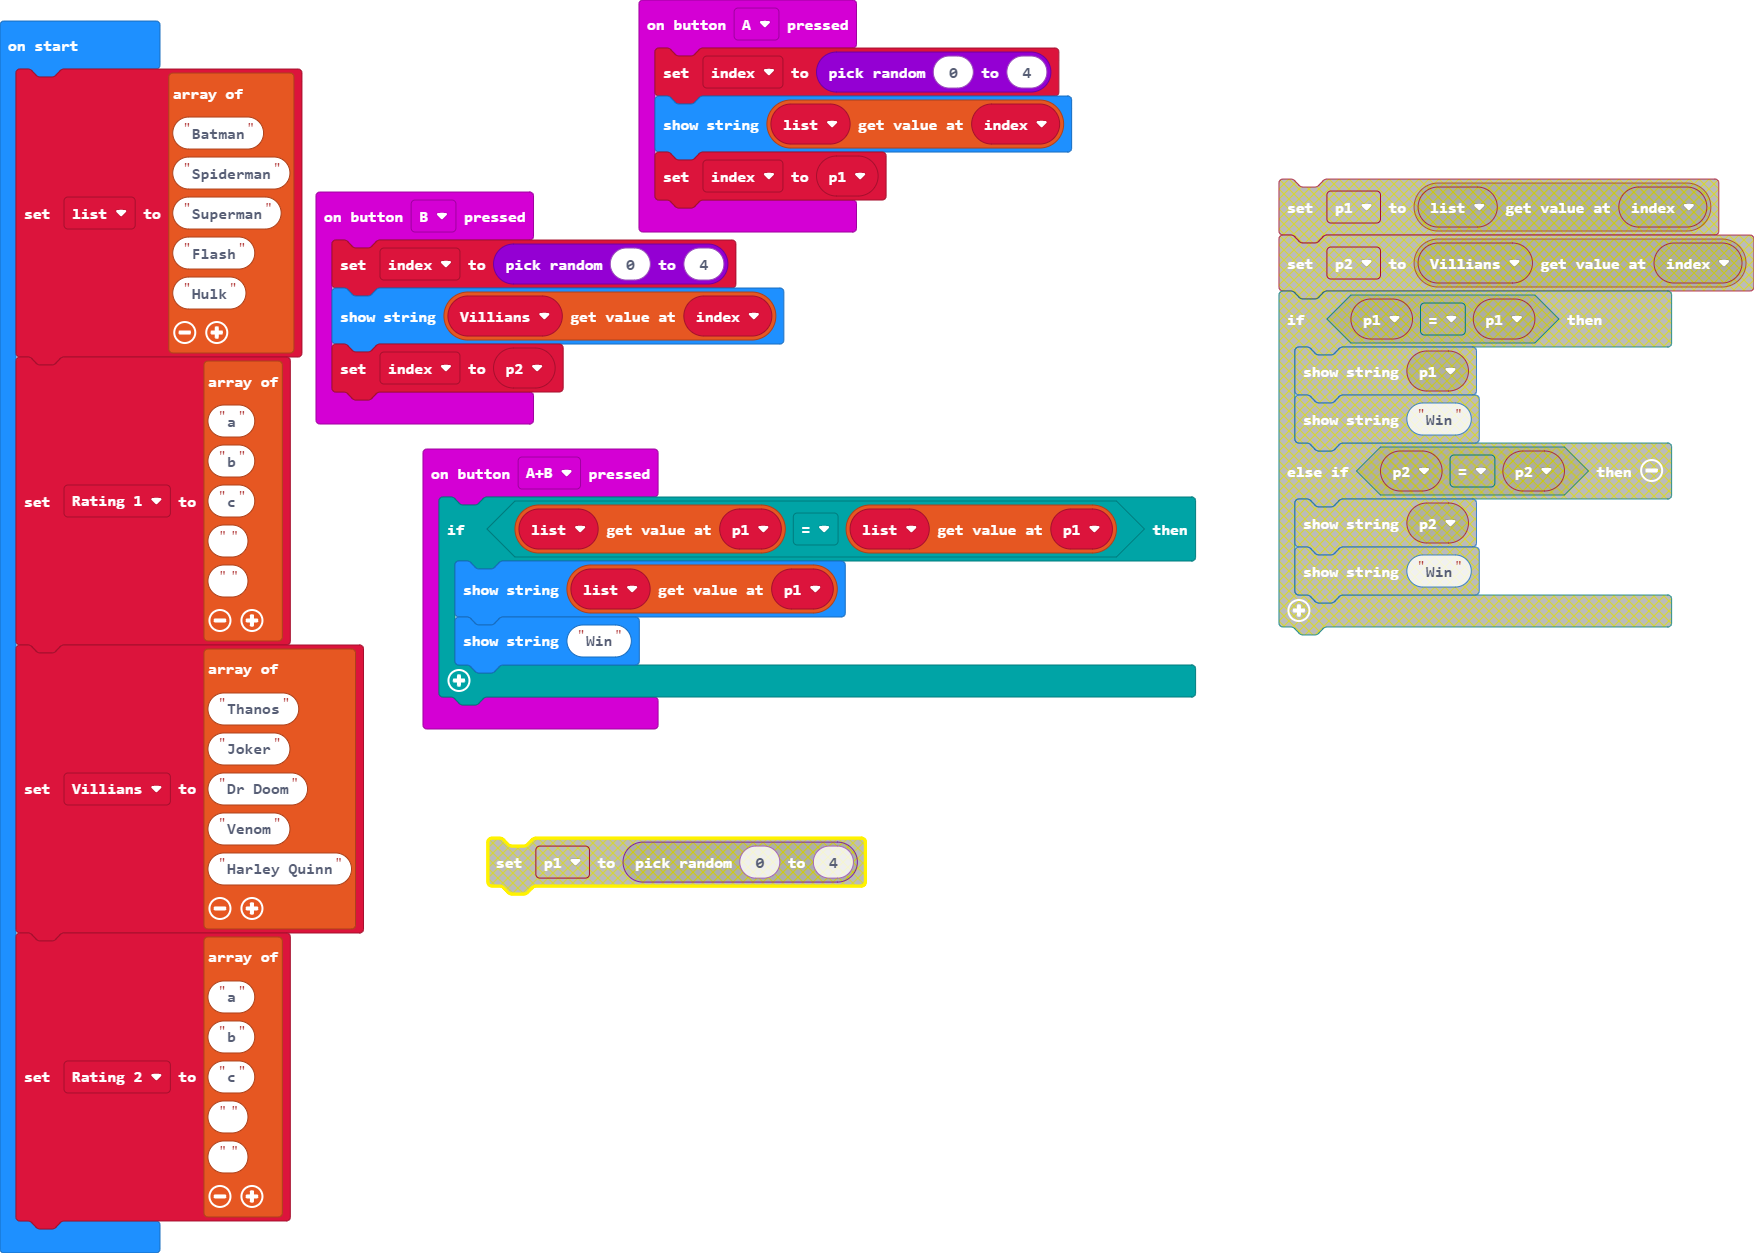
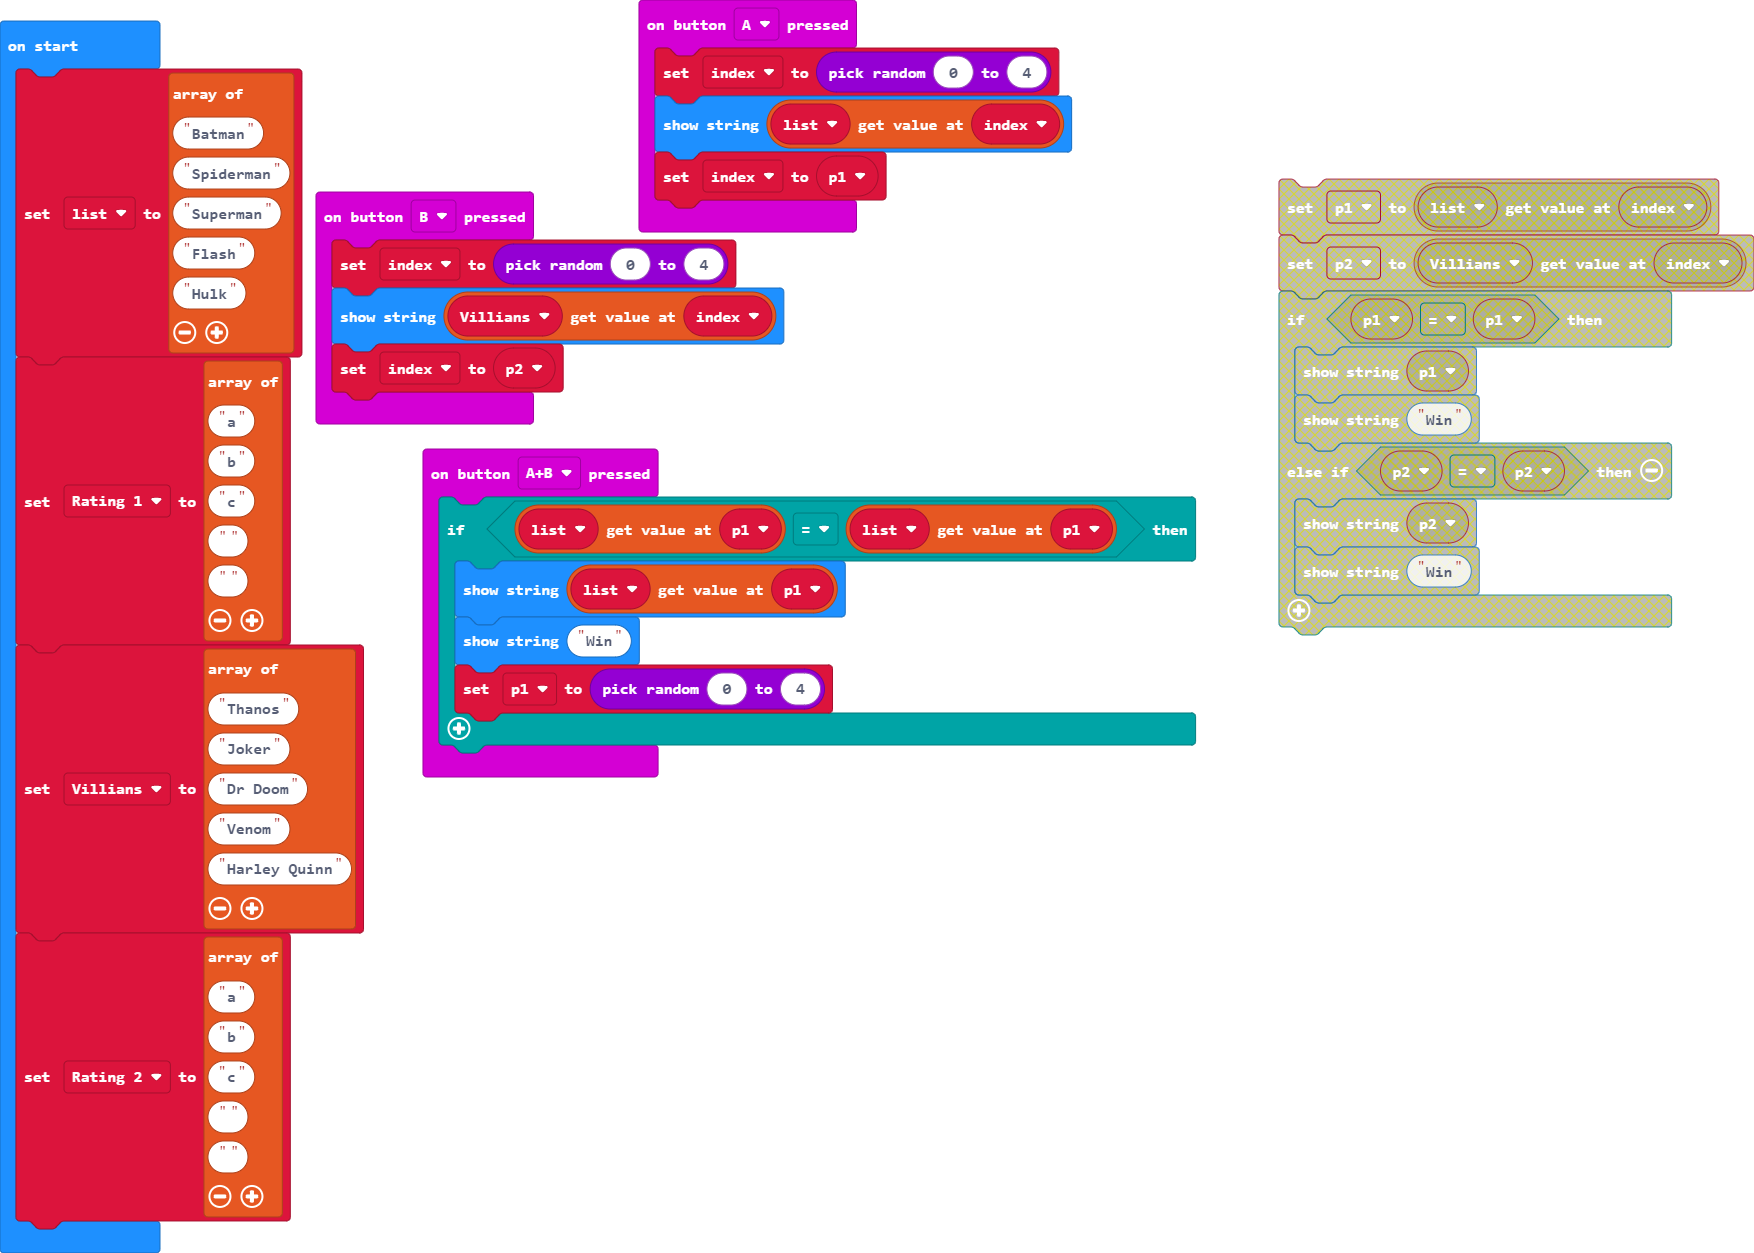
Update main.blocks, main.ts

Changed region(s): [[0.2155, 0.5291, 0.7081, 0.6225], [0.2771, 0.6536, 0.4926, 0.7159]]

diff --git a/main.ts b/main.ts
@@ -7,6 +7,7 @@ input.onButtonPressed(Button.AB, function () {
     if (list[p1] == list[p1]) {
         basic.showString("" + (list[p1]))
         basic.showString("Win")
+        p1 = randint(0, 4)
     }
 })
 input.onButtonPressed(Button.B, function () {
